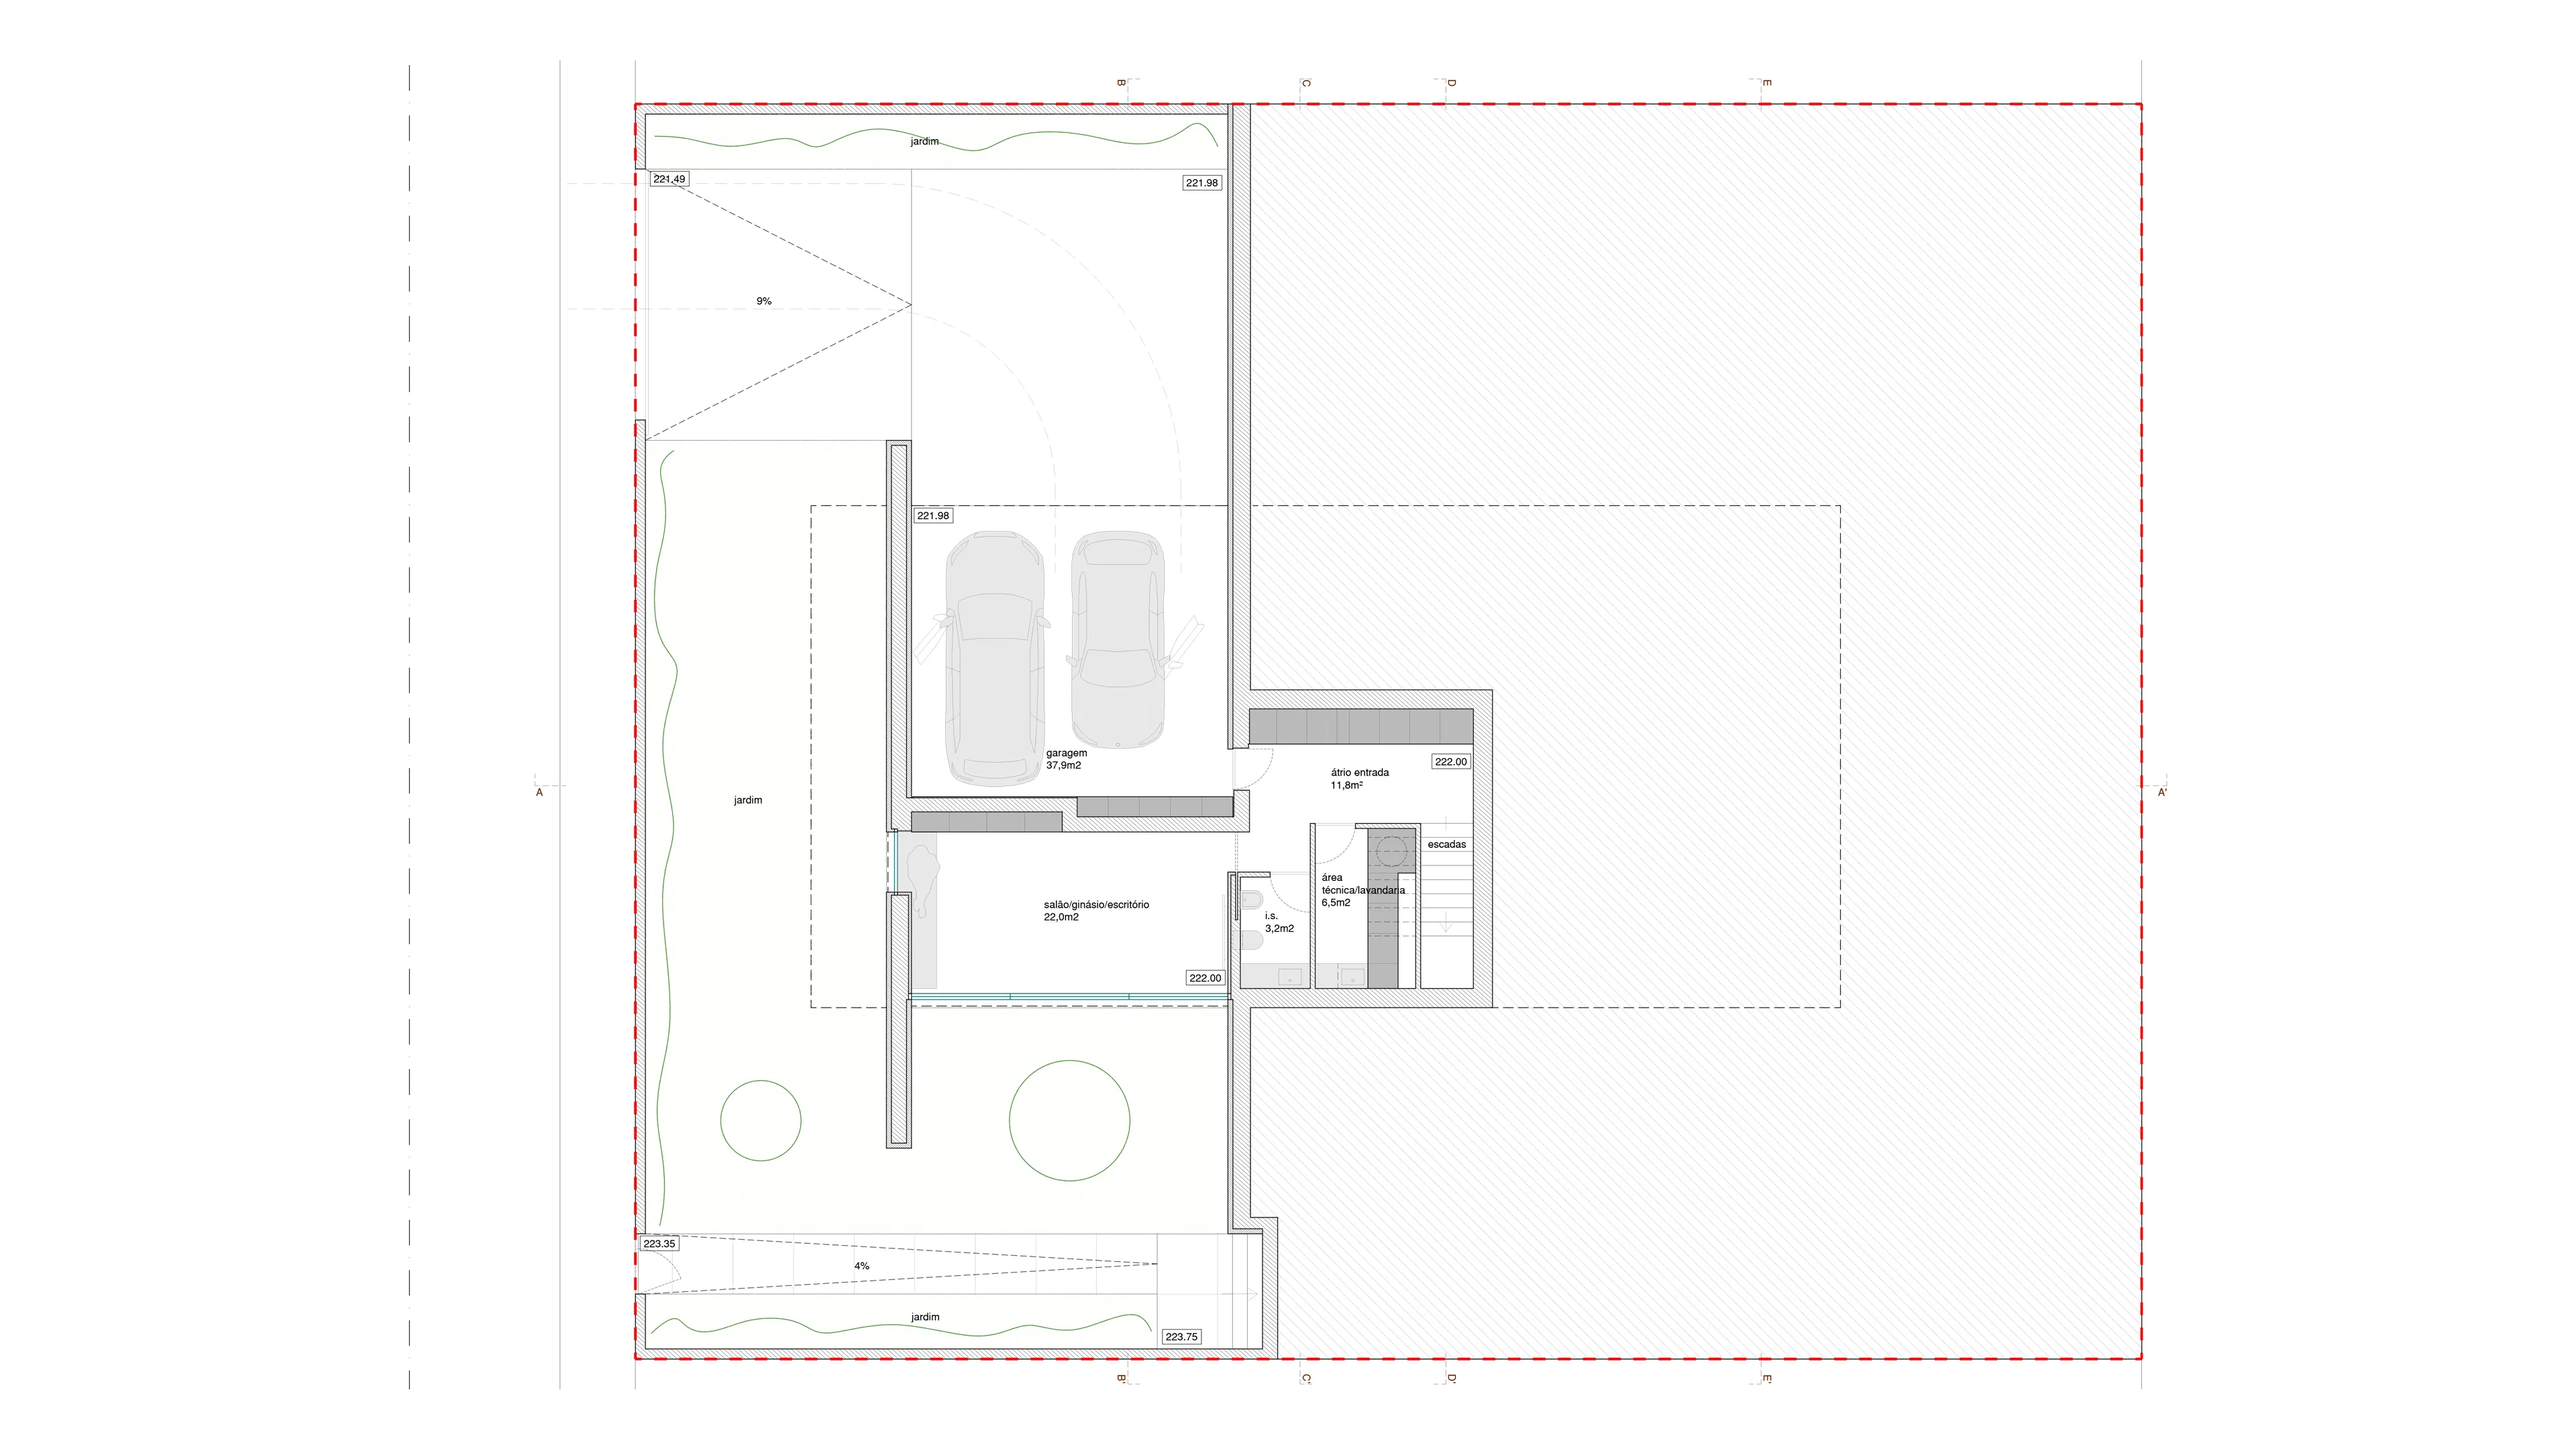
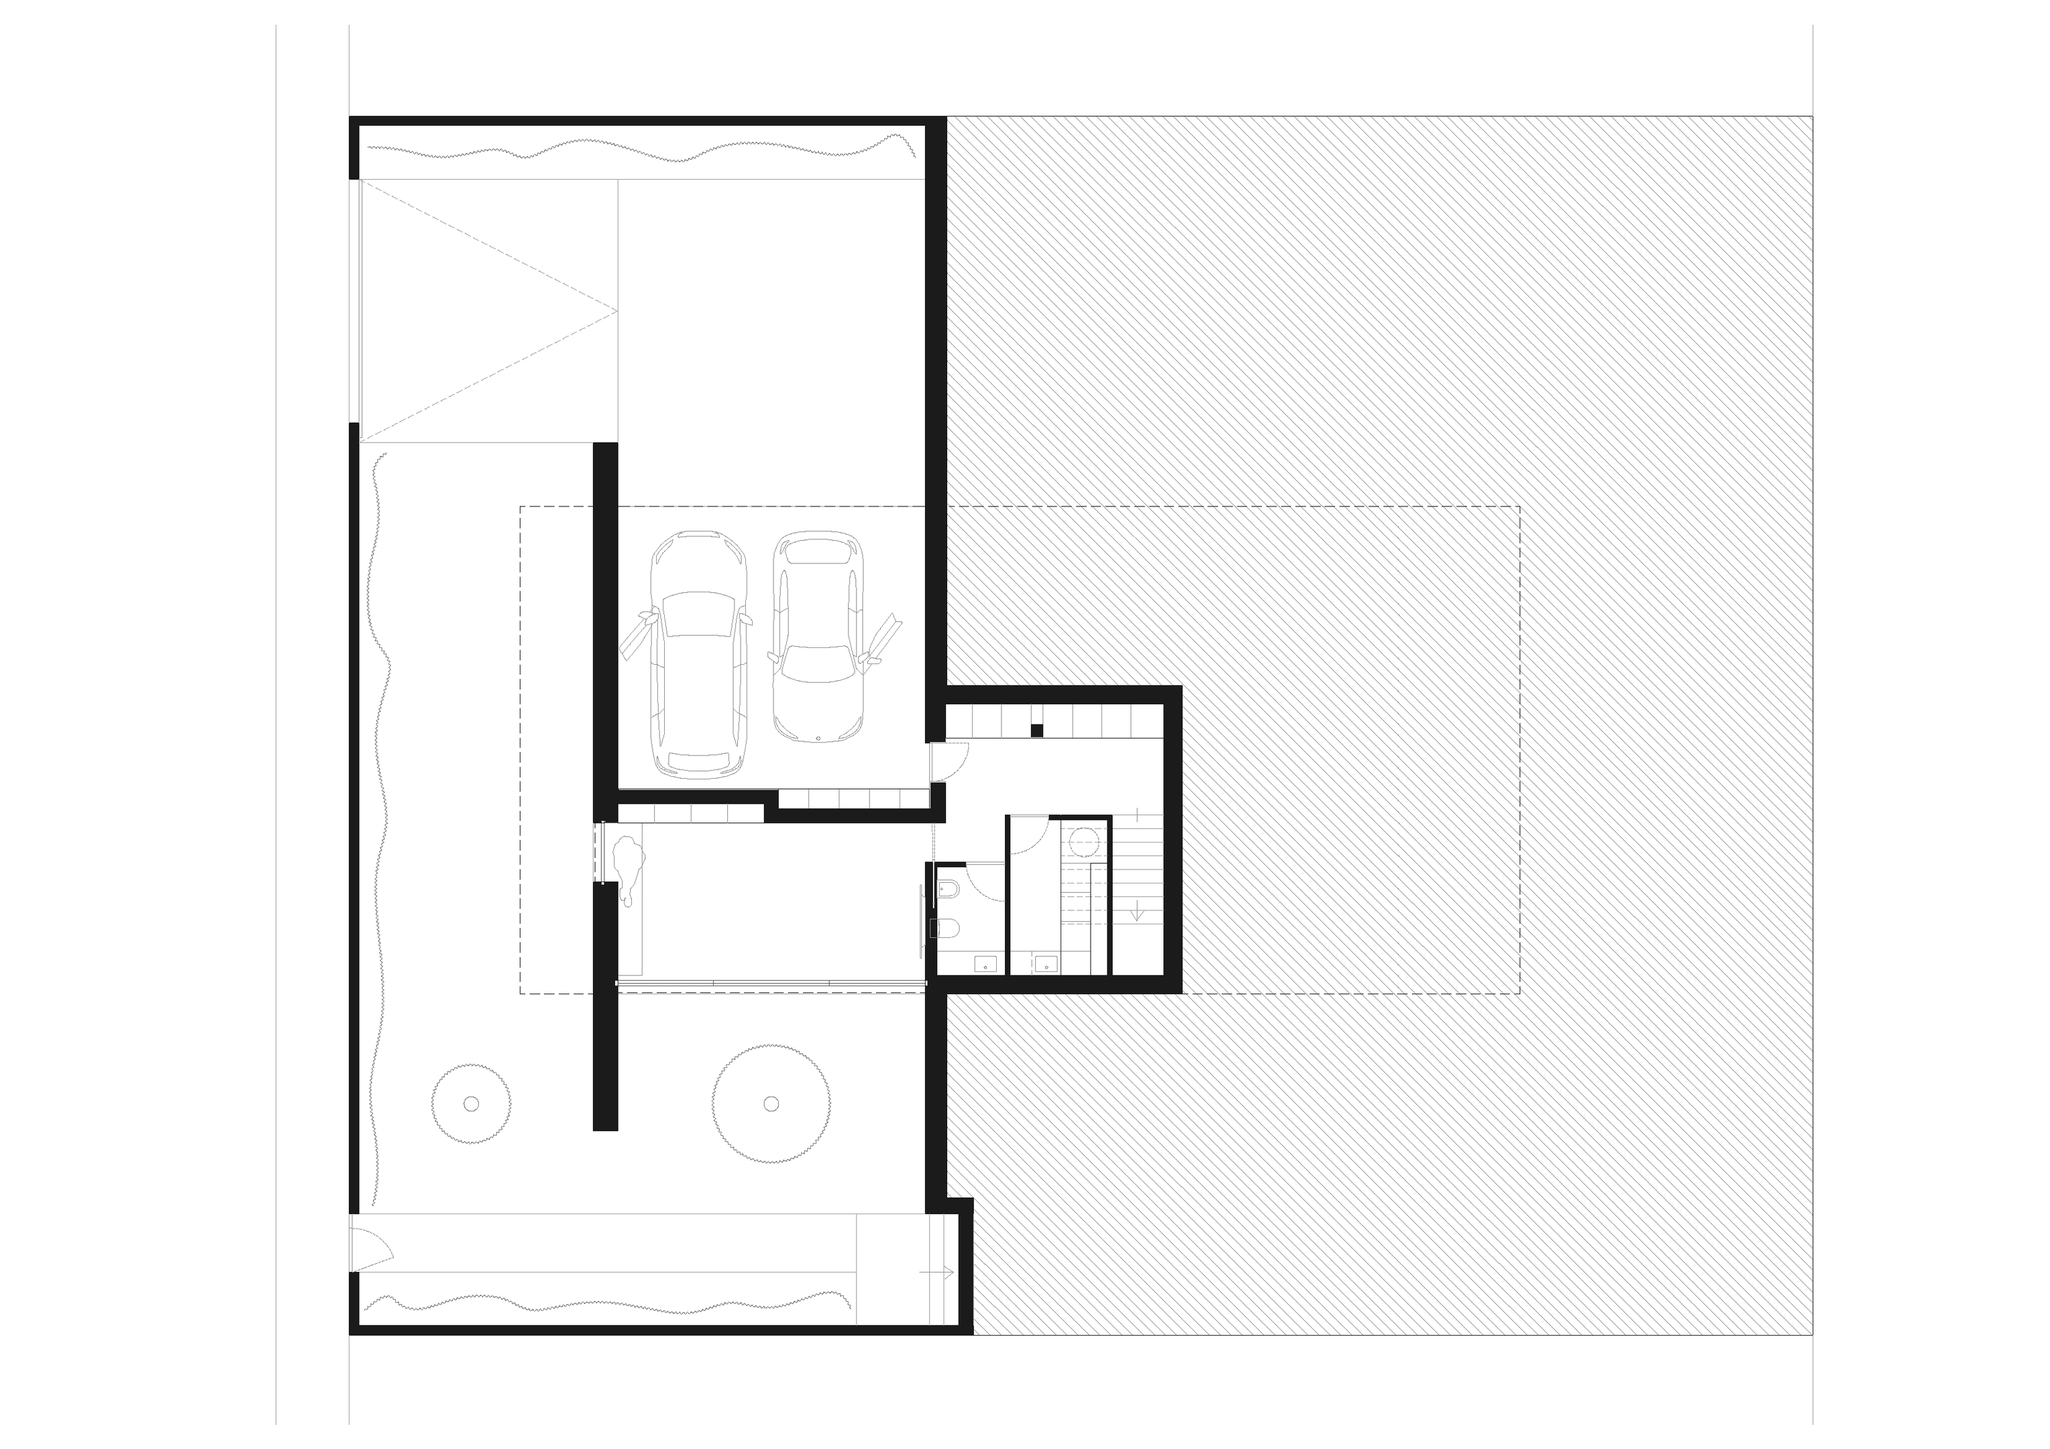
update mire

Changed region(s): [[0.1554, 0.062, 0.8704, 0.9616], [0.1554, 0.2792, 0.1865, 0.8375], [0.2487, 0.8375, 0.2798, 0.8685]]

diff --git a/projetos.html b/projetos.html
@@ -431,16 +431,14 @@ media: [
 { type: 'image', src: "img/projetos/146_Moradia_MireTibaes_Braga/146_01.webp" },
 { type: 'image', src: "img/projetos/146_Moradia_MireTibaes_Braga/146_02.webp" },
 { type: 'image', src: "img/projetos/146_Moradia_MireTibaes_Braga/146_03.webp" },
-{ type: 'image', src: "img/projetos/146_Moradia_MireTibaes_Braga/146_04.webp" },
-{ type: 'image', src: "img/projetos/146_Moradia_MireTibaes_Braga/146_05.webp" },
 { type: 'image', src: "img/projetos/146_Moradia_MireTibaes_Braga/146_06.webp" },
 { type: 'image', src: "img/projetos/146_Moradia_MireTibaes_Braga/146_07.webp" },
 { type: 'image', src: "img/projetos/146_Moradia_MireTibaes_Braga/146_08.webp" },
 { type: 'image', src: "img/projetos/146_Moradia_MireTibaes_Braga/146_09.webp" },
 { type: 'image', src: "img/projetos/146_Moradia_MireTibaes_Braga/146_10.webp" },
 { type: 'image', src: "img/projetos/146_Moradia_MireTibaes_Braga/146_11.webp" },
-{ type: 'image', src: "img/projetos/146_Moradia_MireTibaes_Braga/146_12.webp" },
-{ type: 'image', src: "img/projetos/146_Moradia_MireTibaes_Braga/146_13.webp" }
+{ type: 'image', src: "img/projetos/146_Moradia_MireTibaes_Braga/146_12.webp" },/*
+{ type: 'image', src: "img/projetos/146_Moradia_MireTibaes_Braga/146_13.webp" }*/
 ]
 },
 projeto108: {
